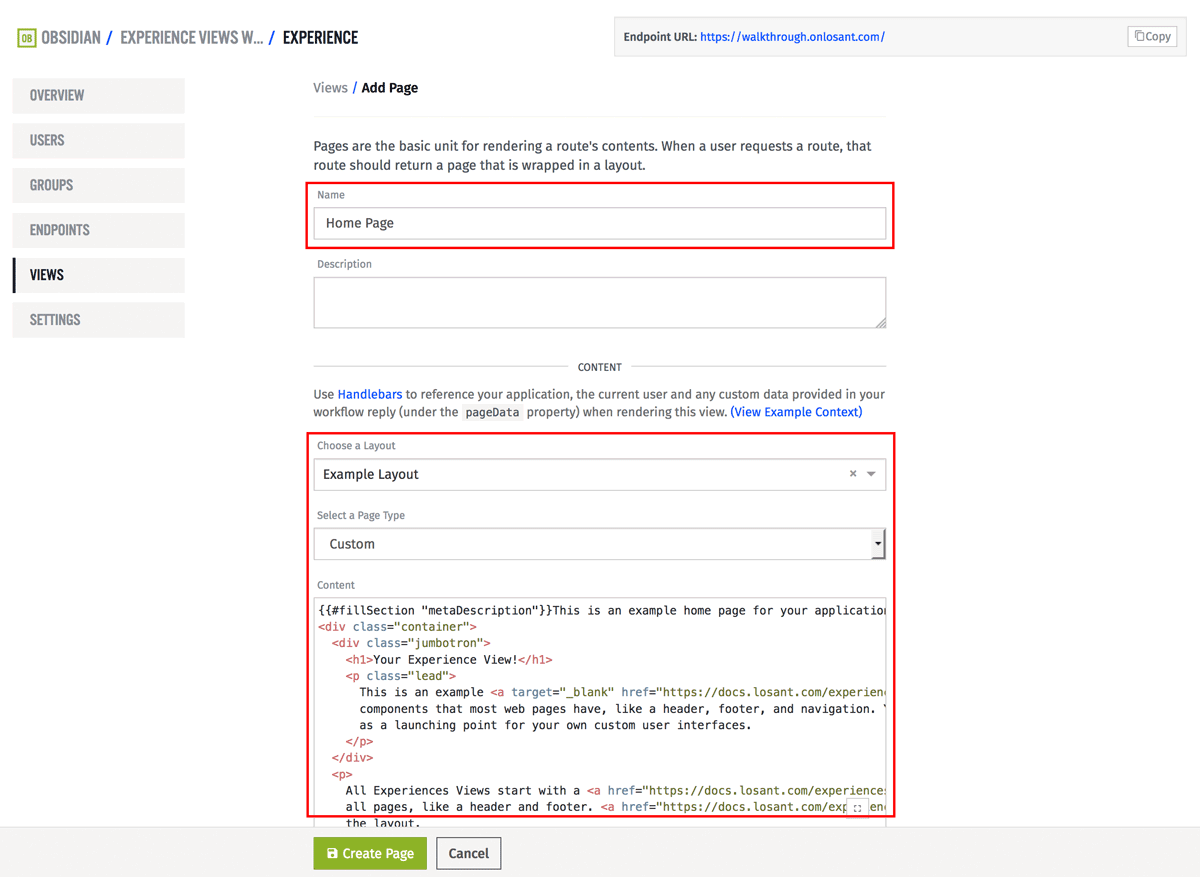
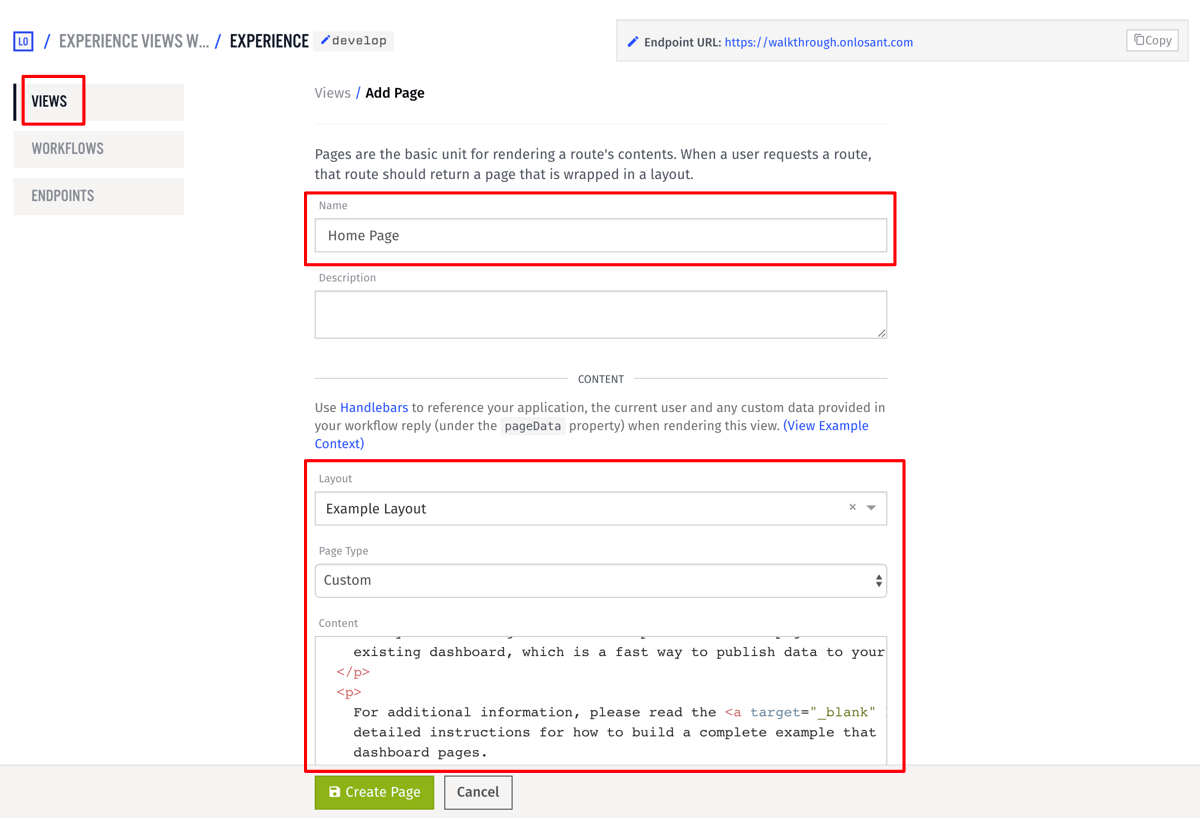
redo views walkthrough part 3

diff --git a/docs/experiences/walkthrough/views/home-page.md b/docs/experiences/walkthrough/views/home-page.md
@@ -4,13 +4,7 @@ In the [previous part](/experiences/walkthrough/views/page-layout/) of this walk
 
 ![Home Page Screenshot](/images/experiences/walkthrough/views/home-page/screenshot.png "Home Page Screenshot")
 
-The first step in building the home page is to create the `/` endpoint.
-
-![Home Endpoint](/images/experiences/walkthrough/views/home-page/home-endpoint.png "Home Endpoint")
-
-Set the `Method / Route` to `/` and set the `Access Control` to `All public users`. The reason we're not limiting access to only authenticated users is because we want to redirect users to the Log In page if they're not logged in. This redirect needs to be done in the workflow. If we prevent access to unauthenticated users, the request will be blocked by Losant before it reaches any of our workflows and the user will receive an error message.
-
-Next, create a new page that will be returned by this endpoint request.
+The first step in building the home page is to create the view with the content.
 
 ![Home Content](/images/experiences/walkthrough/views/home-page/home-content.png "Home Content")
 
@@ -18,22 +12,17 @@ Set the `Layout` to the layout you created [earlier](/experiences/walkthrough/vi
 
 This home page example is mostly Twitter Bootstrap markup for laying out the content, plus a [`{{#fillSection}}` helper](/experiences/views/#fillsection-helpers) similar to what was part of the [Log In](/experiences/walkthrough/views/log-in-page/) page.
 
-Now that the endpoint and page are created, you can create the workflow that will respond to the endpoint request with this newly created page.
+Next, create the endpoint that will be returning the page we just created.
 
-First <a href="https://cdn.rawgit.com/Losant/experience-views-walkthrough/107a5378/home-page/endpoint-home.flow" target="_blank">download the example</a>, and [import it](/workflows/overview/#import-export).
+![Home Endpoint](/images/experiences/walkthrough/views/home-page/home-endpoint.png "Home Endpoint")
 
-![Home Workflow](/images/experiences/walkthrough/views/home-page/home-workflow.png "Home Workflow")
+Set the `Method / Route` to `/` and set the `Access Control` to `Any authenticated user`. We are going to use some built in endpoint features that we have not talked about yet for this endpoint, called static replies. When your endpoint does not need complicated logic, you can use static replies to immediately redirect or render a page (and so you don't need to create a workflow).
 
-Similar to the login workflow we created previously, two of these nodes will have errors when they're imported. Update the `GET /` trigger and set the `Endpoint Method / Route` to the endpoint you just created. Next, update the `Render Home` reply node and set the `Page ID Template` to the home page you just created.
+![Home Endpoint Static Replies](/images/experiences/walkthrough/views/home-page/home-endpoint-static.png "Home Endpoint Static Replies")
 
-When the `/` endpoint is requested this workflow will be triggered, performing the following tasks:
+In this case, there are two static replies - one for when there is an authenticated user, and one for when there is not. In the case where there is no authenticated user - the `Unauthorized Reply` - we are choosing to redirect to `/login`, to force the user to log in. In the case where there *is* an authenticated user, we are choosing to reply directly with the page that we created above, the `Home Page`.
 
-* It first checks to see if the user is logged in. If the user is not logged in, the workflow replies with a redirect to the Log In page.
-* If the user is logged in, it replies with the home page content we just created.
-
-You can see now why we wanted the the `/` endpoint to be available to all public users. If we restricted it to only authenticated users, this workflow would never trigger, and we wouldn't be able to redirect them to the Log In page.
-
-You can now deploy this workflow and test your example experience. If you request the `/` route while not logged in, you'll be redirected to `/login`. At that point you can log in and then you'll be redirected back to `/` to view your home page content.
+Now that the page and endpoint with static replies are created, your home page route will work. If you request the `/` route while not logged in, you'll be redirected to `/login`. At that point you can log in and then you'll be redirected back to `/` to view your home page content.
 
 This completes this part of the walkthrough. The following parts of this walkthrough will begin adding additional functionality that is common to most web pages.
 
